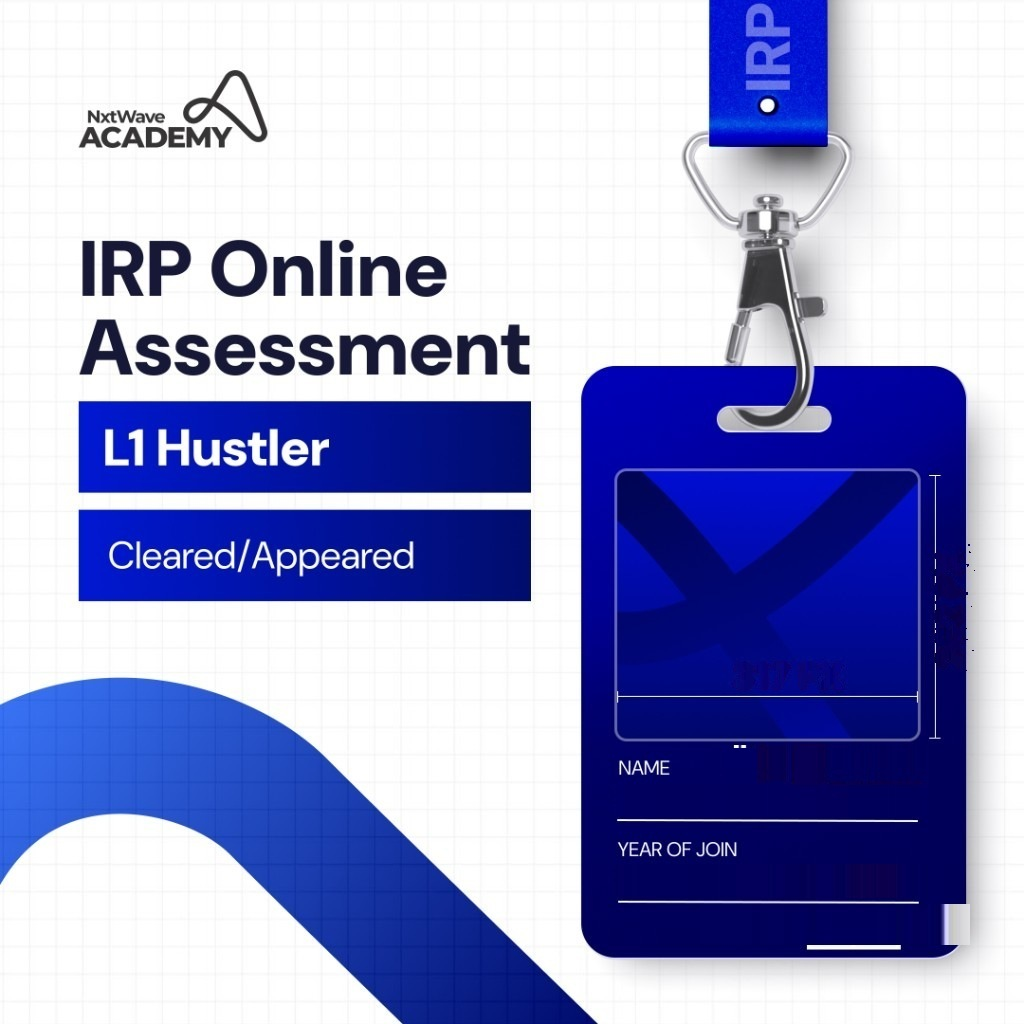
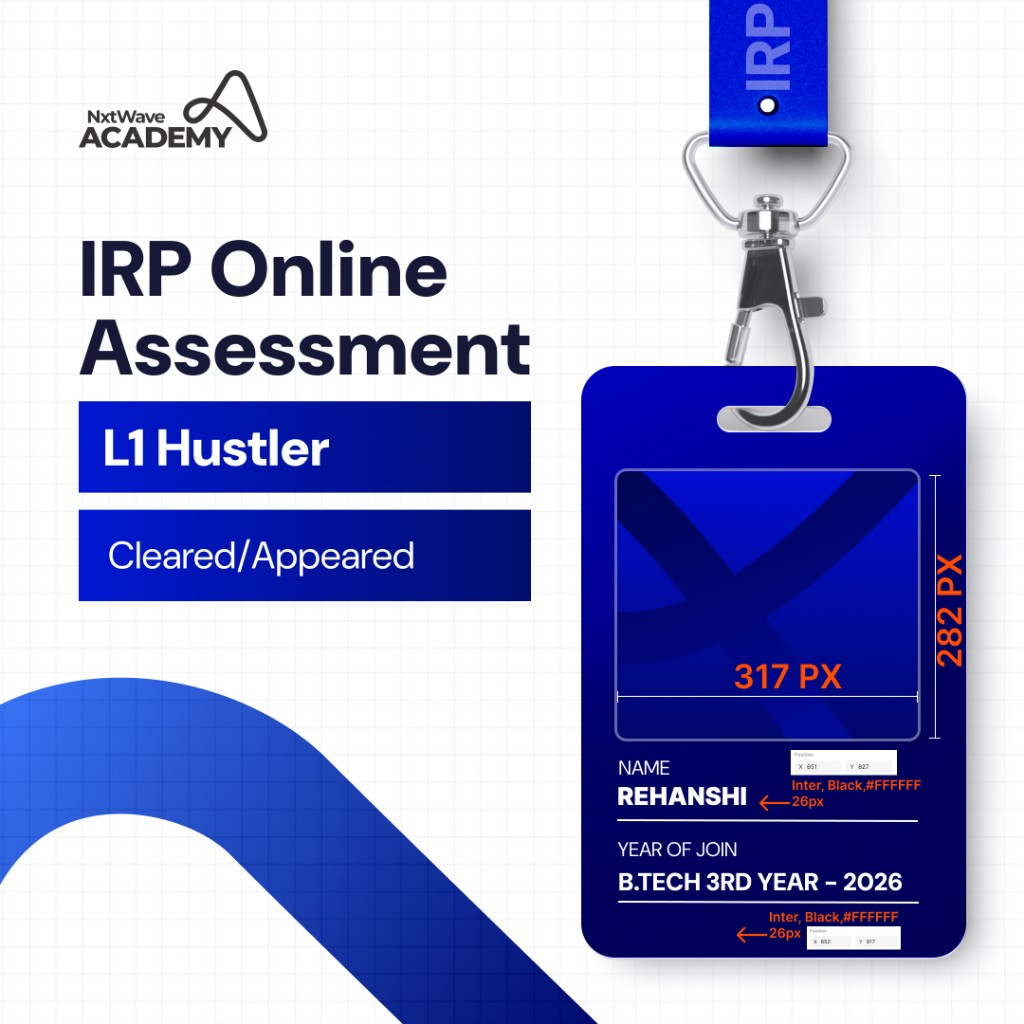
Keep the uploaded IRP Clear Card colors and only fill each student's photo, name, and year of join.

diff --git a/artifacts/irp-dashboard/src/components/irp/OnlineAssessmentBadge.tsx b/artifacts/irp-dashboard/src/components/irp/OnlineAssessmentBadge.tsx
@@ -59,21 +59,21 @@ const BADGE_THEMES: Record<BadgeThemeId, BadgeTheme> = {
     dialogTitle: "Online Assessment IRP Clear Card",
     dialogBody: "You qualified in the IRP online assessment. Download this IRP Clear Card to save or share it.",
     fileSlug: "online",
-    template: "irp-poster-online.jpg",
+    template: "irp-poster-online.jpg?v=3",
   },
   fe: {
     id: "fe",
     dialogTitle: "FE Project IRP Clear Card",
     dialogBody: "You cleared the FE Project. Download this IRP Clear Card to save or share it.",
     fileSlug: "fe",
-    template: "irp-poster-fe.jpg",
+    template: "irp-poster-fe.jpg?v=3",
   },
   panel: {
     id: "panel",
     dialogTitle: "Panel Interview IRP Clear Card",
     dialogBody: "You cleared the panel interview. Download this IRP Clear Card to save or share it.",
     fileSlug: "panel",
-    template: "irp-poster-panel.jpg",
+    template: "irp-poster-panel.jpg?v=3",
   },
 };
 
@@ -170,16 +170,35 @@ function fitFont(ctx: CanvasRenderingContext2D, text: string, maxWidth: number):
   return font;
 }
 
+/** Copy a clean row from the same poster over the online artwork's sample name and year. */
+function coverOnlinePlaceholders(ctx: CanvasRenderingContext2D, template: CanvasImageSource) {
+  const stamp = (x: number, y: number, w: number, h: number, srcY: number) => {
+    ctx.drawImage(template, x, srcY, w, 1, x, y, w, h);
+  };
+  stamp(610, 778, 150, 39, 776);
+  stamp(755, 742, 176, 76, 744);
+  stamp(610, 866, 310, 31, 862);
+  stamp(700, 906, 241, 55, 908);
+  // The orange "282 PX" note sits on the badge edge. Replace it with the badge color beside it.
+  ctx.drawImage(template, 928, 475, 1, 265, 932, 475, 34, 265);
+}
+
 function drawPoster(
   ctx: CanvasRenderingContext2D,
   student: OnlineBadgeStudent,
   template: HTMLImageElement | null,
   photo: CanvasImageSource | null,
+  themeId: BadgeThemeId,
 ) {
   ctx.clearRect(0, 0, POSTER, POSTER);
   ctx.fillStyle = "#ffffff";
   ctx.fillRect(0, 0, POSTER, POSTER);
-  if (template) ctx.drawImage(template, 0, 0, POSTER, POSTER);
+  ctx.imageSmoothingEnabled = false;
+  if (template) {
+    ctx.drawImage(template, 0, 0, POSTER, POSTER);
+    if (themeId === "online") coverOnlinePlaceholders(ctx, template);
+  }
+  ctx.imageSmoothingEnabled = true;
 
   if (photo) {
     const sw = photo instanceof HTMLImageElement ? photo.naturalWidth : photo.width;
@@ -231,7 +250,7 @@ async function paintPoster(
     loadImage(asset(theme.template)),
     loadProfilePhoto(student.photoUrl),
   ]);
-  drawPoster(ctx, student, template, photo);
+  drawPoster(ctx, student, template, photo, theme.id);
 }
 
 export async function downloadOnlineAssessmentBadge(
